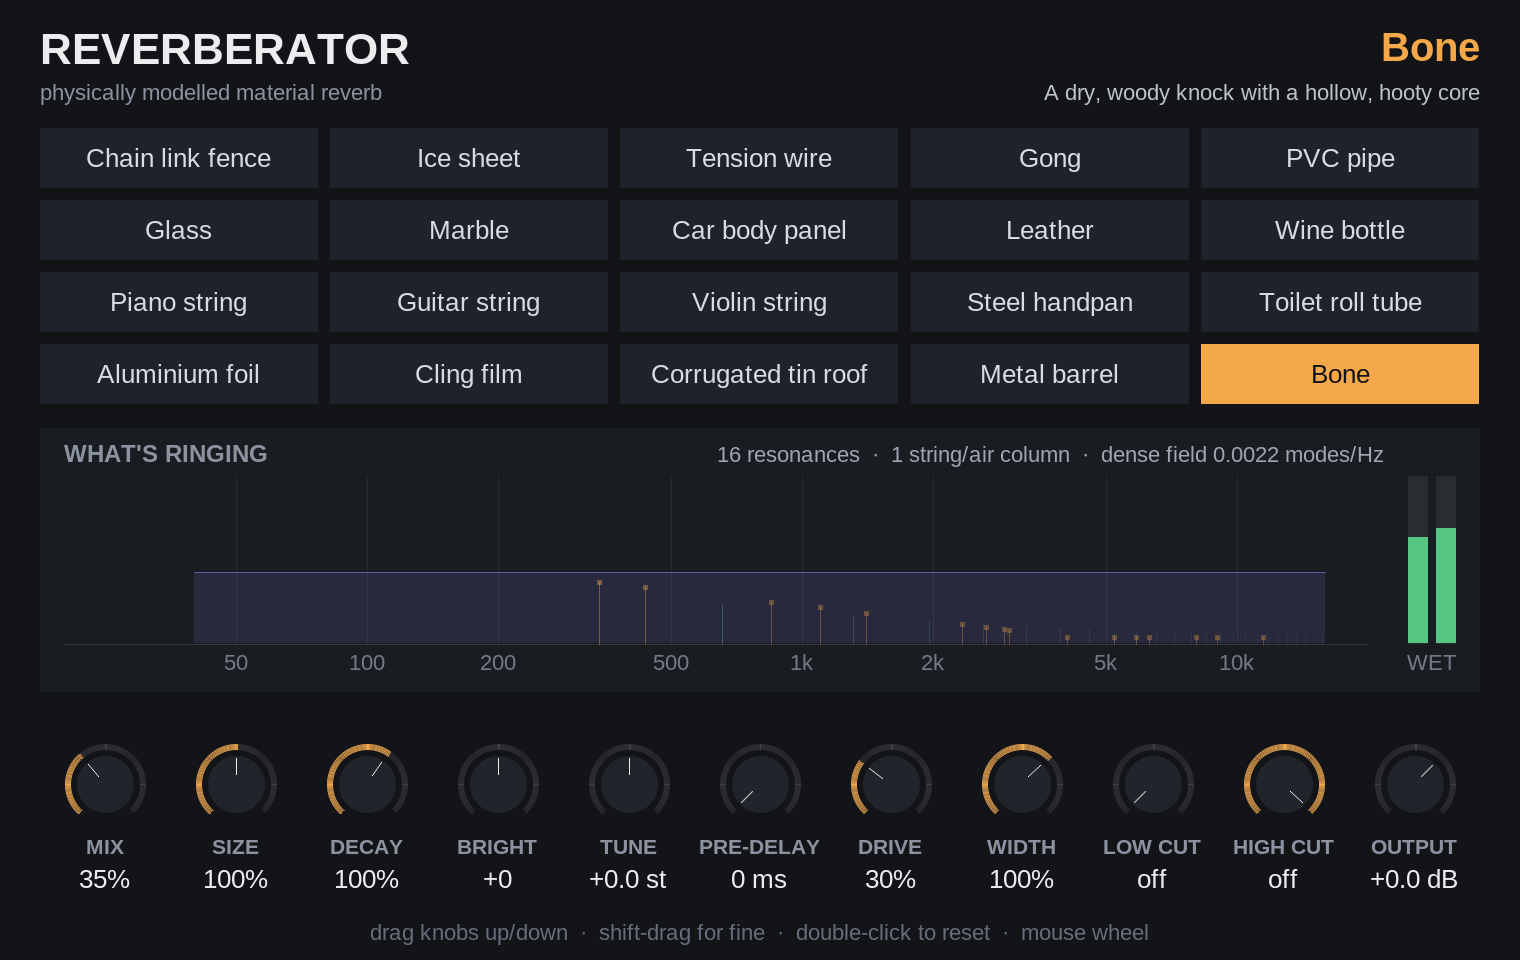
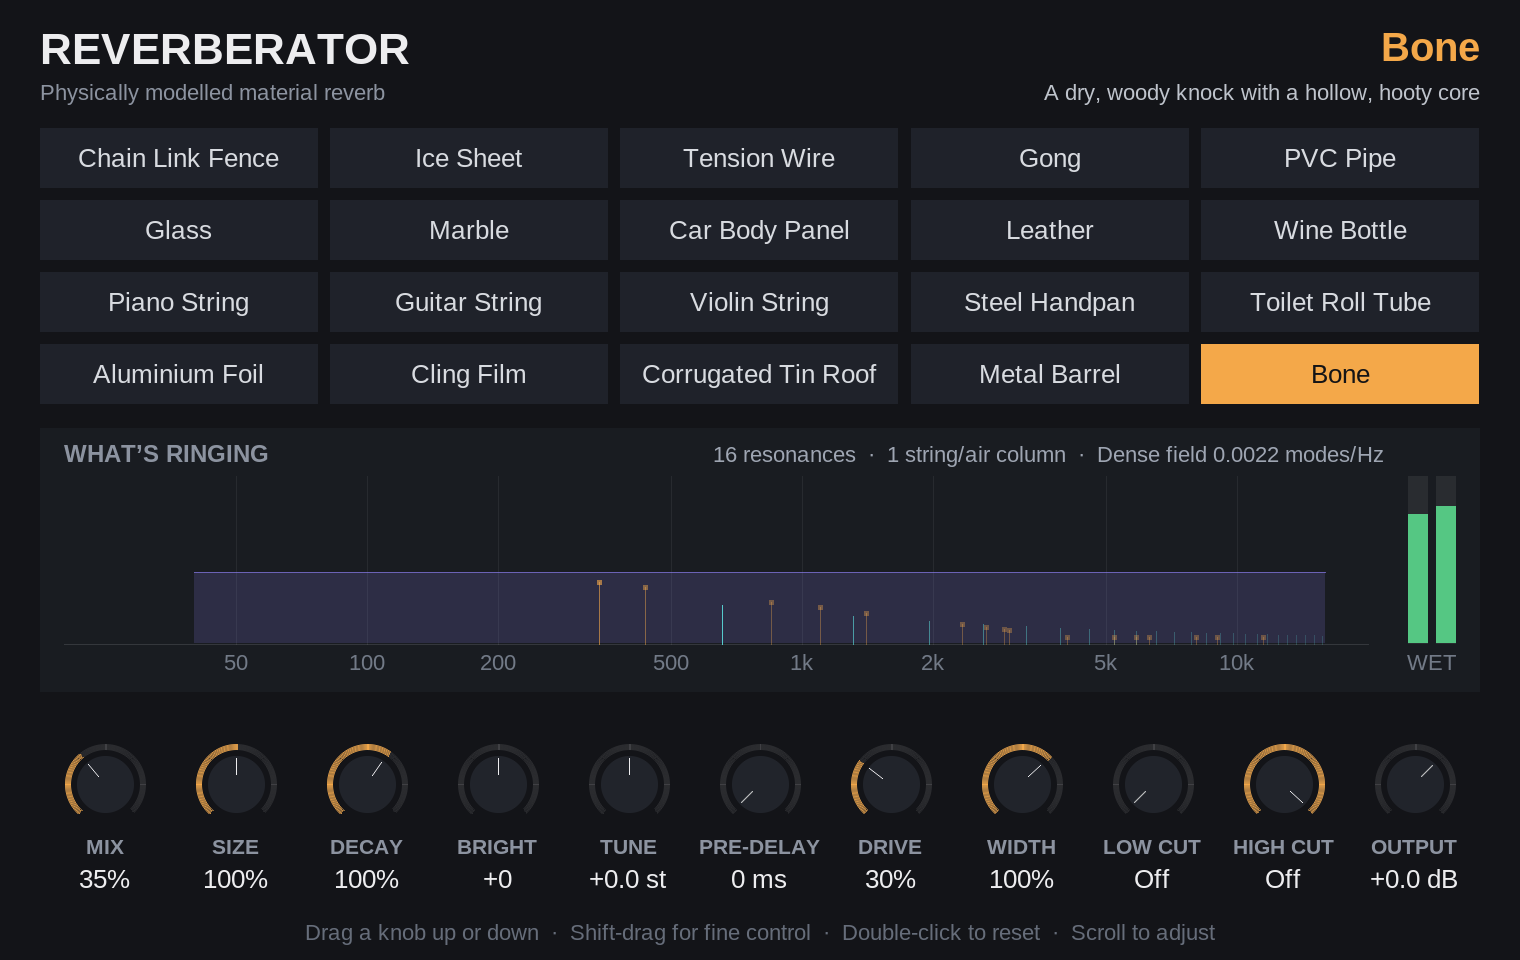
Wording in the window follows Apple's writing guidelines
Material names, slider names and the description line in title-style
capitalization; the subtitle, status and hint lines in sentence case;
curly quotes and apostrophes; Off for a filter that is off. No slider is
renumbered, reordered or re-ranged. ADR 0017, session log section 20,
README table and screenshots updated.

Claude-Session: https://claude.ai/code/session_01AhuthfDb6xVrgHHhH7eBcE

diff --git a/tools/analyse.py b/tools/analyse.py
@@ -2,10 +2,10 @@
 import sys
 import numpy as np
 
-NAMES = ["Chain link fence", "Ice sheet", "Tension wire", "Gong", "PVC pipe", "Glass",
-         "Marble", "Car body panel", "Leather", "Wine bottle", "Piano string",
-         "Guitar string", "Violin string", "Steel handpan", "Toilet roll tube",
-         "Aluminium foil", "Cling film", "Corrugated tin roof", "Metal barrel", "Bone"]
+NAMES = ["Chain Link Fence", "Ice Sheet", "Tension Wire", "Gong", "PVC Pipe", "Glass",
+         "Marble", "Car Body Panel", "Leather", "Wine Bottle", "Piano String",
+         "Guitar String", "Violin String", "Steel Handpan", "Toilet Roll Tube",
+         "Aluminium Foil", "Cling Film", "Corrugated Tin Roof", "Metal Barrel", "Bone"]
 
 
 def load(path):

diff --git a/README.md b/README.md
@@ -12,25 +12,25 @@ compiling, no installer.
 
 | # | Material | What you hear | Where the sound comes from |
 |---|---|---|---|
-| 1 | Chain link fence | Metallic twang, laser-ish "pew", jangling | Two stiff 4 mm line wires (highs outrun lows) plus 24 mesh-link resonances set off by rattling |
-| 2 | Ice sheet | Descending "pew pew" echoes | Bending waves in 5 cm lake ice travel faster the higher they are, so every echo off the shore arrives as a falling chirp |
-| 3 | Tension wire | Long droning sci-fi "blaster" chirps | 25 m and 31 m steel guy wires; tension carries the lows, stiffness races the highs ahead (Ben Burtt's blaster was a hammered guy wire) |
+| 1 | Chain Link Fence | Metallic twang, laser-ish "pew", jangling | Two stiff 4 mm line wires (highs outrun lows) plus 24 mesh-link resonances set off by rattling |
+| 2 | Ice Sheet | Descending "pew pew" echoes | Bending waves in 5 cm lake ice travel faster the higher they are, so every echo off the shore arrives as a falling chirp |
+| 3 | Tension Wire | Long droning sci-fi "blaster" chirps | 25 m and 31 m steel guy wires; tension carries the lows, stiffness races the highs ahead (Ben Burtt's blaster was a hammered guy wire) |
 | 4 | Gong | A huge, dark, shimmering wash | 80 cm bronze tam-tam: its circular-plate modes plus a dense field above; Drive adds the delayed shimmer bloom |
-| 5 | PVC pipe | Hollow, tubey flutter | The air column in 1.5 m of 2" pipe, open both ends, with the same air-loss physics as Trombolese |
+| 5 | PVC Pipe | Hollow, tubey flutter | The air column in 1.5 m of 2" pipe, open both ends, with the same air-loss physics as Trombolese |
 | 6 | Glass | Bright, glassy, long ring | A free 800 × 600 × 5 mm pane: stiff, light, very low loss |
 | 7 | Marble | Short stony "clink", pitched | A 1 m × 60 cm × 2 cm slab: thick and stiff, so few, high, sparse modes |
-| 8 | Car body panel | Clanky metallic "bonk" | A 0.8 mm steel door skin; its curve stiffens the low modes so they bunch up around 340 Hz |
+| 8 | Car Body Panel | Clanky metallic "bonk" | A 0.8 mm steel door skin; its curve stiffens the low modes so they bunch up around 340 Hz |
 | 9 | Leather | Dead, thumpy drum-skin thud | A stretched hide like a frame drum; leather's internal friction kills it fast, and the pitch sags as it decays |
-| 10 | Wine bottle | Hooty boom at ~110 Hz plus a glass clink | The air in a 750 ml bottle is a Helmholtz resonator; the glass wall rings on top |
-| 11 | Piano string | Shimmering sympathetic halo | 24 piano strings (C2–B3) with the sustain pedal down, ringing along with whatever you play, through a spruce soundboard |
-| 12 | Guitar string | Six open strings humming along | Steel strings in standard tuning radiating through a guitar body (air mode ~98 Hz) |
-| 13 | Violin string | Nasal, woody sympathetic ring | G D A E strings heard through a violin body (A0 ~275 Hz, "bridge hill" ~2.5 kHz) |
-| 14 | Steel handpan | Sweet, tuned, bell-like bloom in D minor | Nine tone fields (D Kurd), each tuned fundamental : octave : fifth, plus the shell's "Gu" port resonance |
-| 15 | Toilet roll tube | Honky, boxy, talking-through-a-tube | 10 cm of cardboard tube; porous walls soak up the ring |
-| 16 | Aluminium foil | Sizzly, crinkly, papery splash | A 16-micron sheet: vast numbers of overlapping modes, plus crinkle crackles when driven |
-| 17 | Cling film | Soft, rubbery, kazoo-like buzz | Film so light the air it drags outweighs it 14×; loud input makes it slap and buzz |
-| 18 | Corrugated tin roof | Rumbling, rattly, tinny | Ribbed 0.5 mm steel ~1800× stiffer along the ribs than across, with loose fixings that rattle |
-| 19 | Metal barrel | Boomy "inside an oil drum" resonance with steel ring | The air cavity of a 205 litre drum, its two lids, and the steel shell |
+| 10 | Wine Bottle | Hooty boom at ~110 Hz plus a glass clink | The air in a 750 ml bottle is a Helmholtz resonator; the glass wall rings on top |
+| 11 | Piano String | Shimmering sympathetic halo | 24 piano strings (C2–B3) with the sustain pedal down, ringing along with whatever you play, through a spruce soundboard |
+| 12 | Guitar String | Six open strings humming along | Steel strings in standard tuning radiating through a guitar body (air mode ~98 Hz) |
+| 13 | Violin String | Nasal, woody sympathetic ring | G D A E strings heard through a violin body (A0 ~275 Hz, "bridge hill" ~2.5 kHz) |
+| 14 | Steel Handpan | Sweet, tuned, bell-like bloom in D minor | Nine tone fields (D Kurd), each tuned fundamental : octave : fifth, plus the shell's "Gu" port resonance |
+| 15 | Toilet Roll Tube | Honky, boxy, talking-through-a-tube | 10 cm of cardboard tube; porous walls soak up the ring |
+| 16 | Aluminium Foil | Sizzly, crinkly, papery splash | A 16-micron sheet: vast numbers of overlapping modes, plus crinkle crackles when driven |
+| 17 | Cling Film | Soft, rubbery, kazoo-like buzz | Film so light the air it drags outweighs it 14×; loud input makes it slap and buzz |
+| 18 | Corrugated Tin Roof | Rumbling, rattly, tinny | Ribbed 0.5 mm steel ~1800× stiffer along the ribs than across, with loose fixings that rattle |
+| 19 | Metal Barrel | Boomy "inside an oil drum" resonance with steel ring | The air cavity of a 205 litre drum, its two lids, and the steel shell |
 | 20 | Bone | Dry, woody knock with a hollow, hooty core | A dried human shin bone: its hollow shaft bending and twisting (tuned against resonances measured on real tibiae), the air sealed in its marrow cavity, and at high Drive the clack of "rhythm bones" |
 
 ## Installing in REAPER
@@ -74,10 +74,10 @@ mixer panel, it shows a compact view: the material name and level meters.
 | **Decay** | Longer or shorter ring, without changing the object. |
 | **Brightness** | Lets the high frequencies ring longer (+) or die faster (−). |
 | **Tuning** | Transposes the object in semitones — useful for the piano, guitar, violin, handpan and bottle, which have real pitches. |
-| **Pre-delay** | A gap before the reverb starts. |
+| **Pre-Delay** | A gap before the reverb starts. |
 | **Drive** | How hard the transducer hits the material. Above about 30% the level-dependent behaviour appears: the fence and tin roof rattle, foil crackles, cling film buzzes, the gong and barrel shimmer, membranes bend in pitch. |
 | **Width** | Stereo width of the reverb. |
-| **Low cut / High cut** | Filters on the reverb only. |
+| **Low Cut / High Cut** | Filters on the reverb only. |
 | **Output** | Overall level. |
 
 Changing **Material**, **Size** or **Tuning** rebuilds the object, so the tail

diff --git a/docs/adr/0017-text-follows-apple-writing-guidelines.md b/docs/adr/0017-text-follows-apple-writing-guidelines.md
@@ -1,0 +1,51 @@
+# 0017. The window's text follows Apple's writing guidelines
+
+- Status: Accepted
+- Date: 2026-10-14
+
+## Context
+
+The user asked for the text in every one of their apps and plugins to follow
+Apple's Human Interface Guidelines on writing
+(developer.apple.com/design/human-interface-guidelines/writing), as was done
+for Noterator and Miderator (Noterator's decision 0053). Reverberator's
+window mixed styles: material tiles in sentence case ("Chain link fence"),
+a subtitle and a hint line in lower case, straight quotes and apostrophes
+("WHAT'S RINGING", 'pew'), and "off" as a value.
+
+## Decision
+
+One style for each kind of text:
+
+- **Names and labels** — the material tiles and names, slider names
+  (REAPER shows them in automation and parameter lists even though they are
+  hidden), the plugin's description line — in title-style capitalization:
+  "Corrugated Tin Roof", "Pre-Delay (ms)", "Low Cut (Hz)". Units in
+  brackets stay as written (ms, Hz, %).
+- **Descriptions, the subtitle, the status line and the hint line** in
+  sentence case; fragments take no full stop: "Physically modelled material
+  reverb", "Drag a knob up or down · Shift-drag for fine control ·
+  Double-click to reset · Scroll to adjust".
+- **Values** that are words start with a capital ("Off").
+- **Typography**: curly quotes and apostrophes (“pew”, WHAT’S RINGING), an em
+  dash between phrases. In running text modifier keys are spelled out
+  ("Shift-drag"), since the plugin runs on Windows as well as the Mac.
+- The knob captions stay in capitals, a deliberate look, and keep their
+  short forms (BRIGHT, TUNE): the full words do not fit an eleventh of the
+  width.
+
+## Consequences
+
+- No slider is renumbered, reordered or re-ranged, and the Material slider
+  keeps its twenty values in the same order: saved projects and automation
+  are untouched. Only the words REAPER shows change.
+- `tools/analyse.py`'s `NAMES` follows the plugin's names, so rendered demos
+  are named the same way.
+- New text follows the same rules. Check it fits by rendering the window
+  (`tools/build/gui` then `tools/gui_png.py`), since `gfx_drawstr` clips.
+
+## Alternatives considered
+
+- Lower-case knob captions to match the slider names — rejected: the
+  capitals are the window's look, and the HIG asks for consistency within an
+  app, which the captions already have.

diff --git a/docs/SESSION-LOG.md b/docs/SESSION-LOG.md
@@ -468,3 +468,26 @@ lengthen it); a CLAP port if the plugin is wanted outside REAPER; the
 `pip install numpy scipy matplotlib`). The scratch harness used early in
 this session lived outside the repository and is superseded by `tools/`.
 
+
+## 20. Wording to Apple's writing guidelines (2026-10-14)
+
+The user asked for every app's text to follow Apple's Human Interface
+Guidelines on writing, as for Noterator and Miderator (ADR 0017). Text only:
+no slider renumbered, reordered or re-ranged, no sound changed.
+
+- Material names title-style in the tiles, the header and the Material
+  slider's list ("Chain link fence" → "Chain Link Fence"), and in
+  `tools/analyse.py` and the README's table to match.
+- Slider names "Pre-Delay (ms)", "Low Cut (Hz)", "High Cut (Hz)"; the
+  description line "Reverberator — Material Reverb (Physically Modelled)".
+- Sentence case for the subtitle, the status line ("Dense field …") and the
+  hint line, now "Drag a knob up or down · Shift-drag for fine control ·
+  Double-click to reset · Scroll to adjust". "off" → "Off".
+- Curly quotes and apostrophes: “pew”, “pew pew”, WHAT’S RINGING.
+- Knob captions keep their capitals and short forms (BRIGHT and TUNE do not
+  fit as full words).
+
+Verified: `tools/gui_check.py` 0 failures; the window rendered at 2× with
+the fence, the tin roof (the longest name) and the handpan, nothing clipped.
+`docs/gui.png` and `docs/gui-bone.png` re-rendered (with audio, so the
+meters show).

diff --git a/CLAUDE.md b/CLAUDE.md
@@ -113,6 +113,9 @@ Run the sweep in the background. It must report `0 failure(s)`. "note" lines
   slider, and add a knob or control for it in the GUI.
 - `mouse_wheel` is 120 per notch in REAPER; ysfx (and so `tools/build/gui`)
   uses 512.
+- **Text follows Apple's writing guidelines** (ADR 0017): title-style names,
+  slider names and tiles; sentence-case descriptions and hints; curly quotes,
+  em dashes; "Shift-drag" spelled out. Never reorder an enum list to rename it.
 - Check GUI changes by rendering:
   `tools/build/gui Reverberator.jsfx out.bgra 760 480 2 1=<material>` then
   `python3 tools/gui_png.py out.bgra 1520 960 out.png`, and look at it.

diff --git a/docs/adr/README.md b/docs/adr/README.md
@@ -22,6 +22,7 @@ the decisions were made; superseded records stay, marked as such.
 | [0014](0014-material-interpretations.md) | Which version of each object is modelled |
 | [0015](0015-demos-not-committed.md) | Audio demos are generated, not committed |
 | [0016](0016-custom-gui.md) | A custom @gfx interface, with the default sliders hidden |
+| [0017](0017-text-follows-apple-writing-guidelines.md) | The window's text follows Apple's writing guidelines |
 
 ## Adding a record
 
